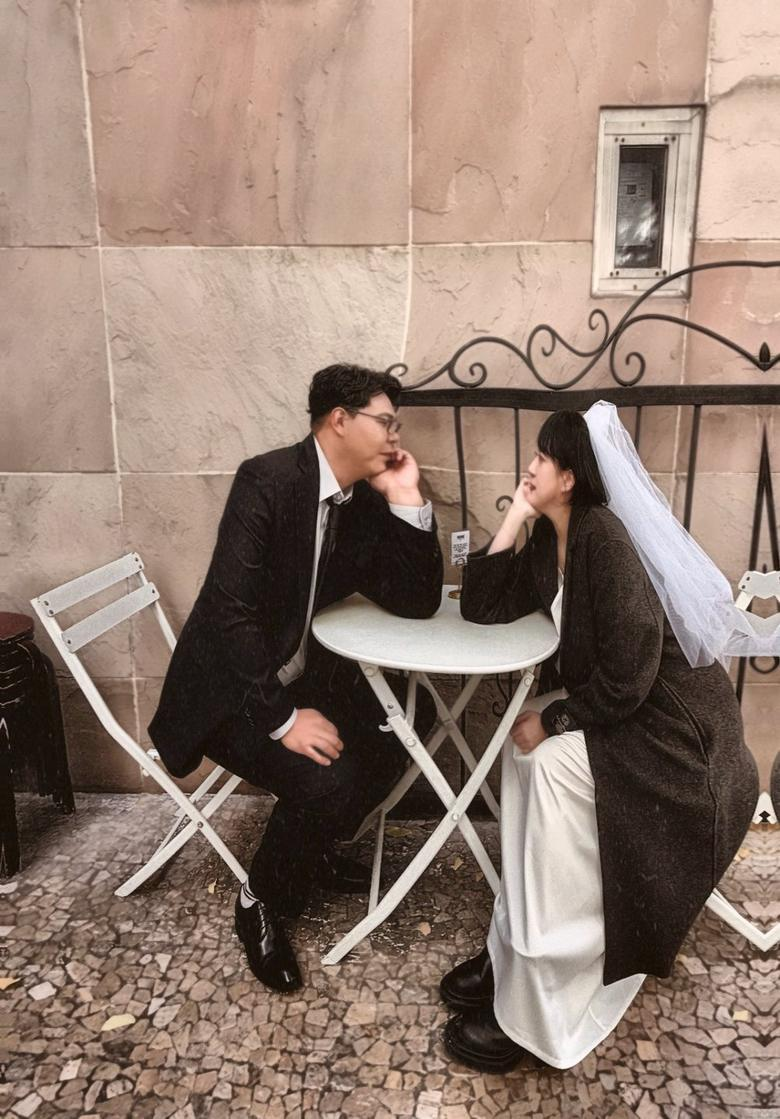
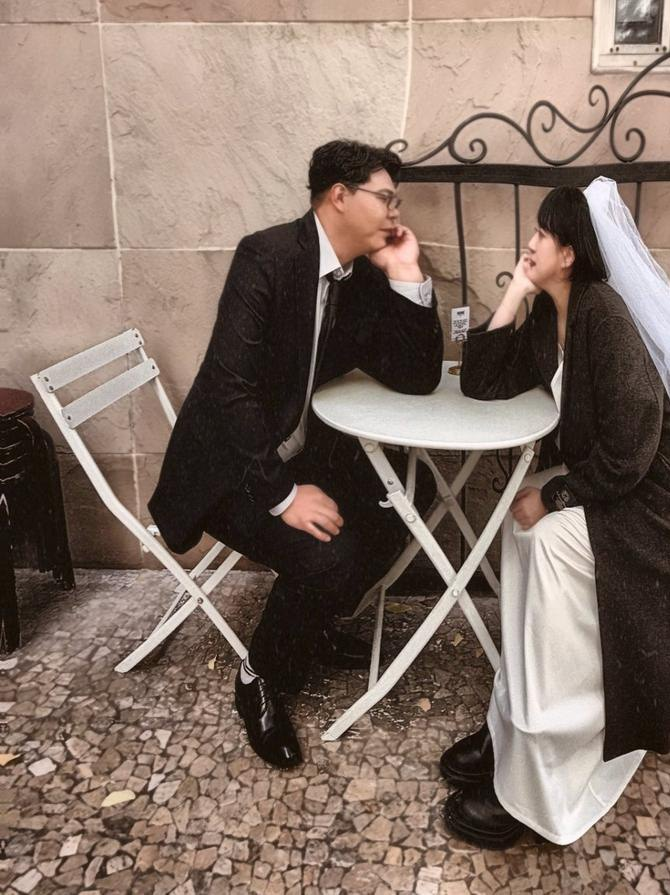
6번(카페 테라스) 사진: 신부 엉덩이 뒷부분부터 잘라냄, 스탬프는 왼쪽 위 벽으로
Claude-Session: https://claude.ai/code/session_018qxtHPCimKmFgYnWh3pAgM

diff --git a/gyusooandsehwa/passport/index.html b/gyusooandsehwa/passport/index.html
@@ -757,7 +757,7 @@ var PHOTOS = [[106, "Fate walks through silver grass"], [97, "Joy finds us anywh
     { n: 136, c: 'var(--stamp-r)', r: '-6deg', t: 'OLD TOWN', s: 'VINTAGE ATELIER', d: 'ENTRY', pos: 'top:26px;left:18px' },
     { n: 19,  c: 'var(--stamp-b)', r: '-10deg', t: 'PALACE GATE', s: 'SEOUL', d: 'PASSED', pos: 'top:20px;right:14px' },
     { n: 127, c: 'var(--stamp-r)', r: '9deg', round: true, t: 'HAN RIVER', s: 'HANNAM 1.3KM', d: 'DEPARTED', pos: 'top:16px;right:12px' },
-    { n: 234, c: 'var(--stamp-g)', r: '-8deg', round: true, t: 'CAFE TERRACE', s: 'JAHAMUN-RO', d: 'SEATED', pos: 'top:12px;right:10px' }
+    { n: 234, c: 'var(--stamp-g)', r: '-8deg', round: true, t: 'CAFE TERRACE', s: 'JAHAMUN-RO', d: 'SEATED', pos: 'top:12px;left:10px' }
   ];
   var capOf = {}; PHOTOS.forEach(function (p) { capOf[p[0]] = p[1]; });
   var KO = {"Fate walks through silver grass": "억새밭을 걷는다", "Joy finds us anywhere": "어디서든 즐겁다", "Time-worn doors, new vows": "오래된 가게 앞에서", "Holding on, holding hands": "손을 잡고 있다", "All roads led here": "여기까지 왔다", "Choosing you, every single day": "매일 당신을 고른다", "Of all paths, I chose you": "당신을 골랐다", "A kiss that says forever": "입을 맞춘다", "Love, by heart": "마음으로", "Every sign points to us": "표지판 앞에서", "Two hearts, one horizon": "같은 곳을 본다", "Still choosing you, daily": "오늘도 당신을 고른다", "Golden hours with you": "노을 질 무렵", "Let's run into forever": "같이 뛰자", "Home is in your arms": "안겨 있다", "Two paths became one": "두 길이 하나가 됐다", "Laughing into forever": "웃으며 걷는다", "Hand in hand, for life": "손을 잡고 간다", "Coffee and forever": "커피 한 잔", "Walk with me": "같이 걷자", "Two hearts, one home": "둘이 한 집", "Coffee for two, always": "둘이 마시는 커피", "Laughter is our language": "웃음이 많다", "You make ordinary golden": "평범한 하루", "Walk with me, always": "계속 같이 걷자", "A promise, face to face": "마주 보고 약속한다", "Running toward forever": "달려간다", "Old souls, new beginning": "새로 시작한다", "Love lives in the details": "사소한 것도 좋다", "Hand in hand, for life ♡": "손을 잡고 간다", "Every road led to you": "어느 길이든 같이", "Looking back, still us": "돌아봐도 우리", "Side by side, always": "늘 나란히", "Our story, just begun": "이제 시작이다", "Veil in the autumn wind": "바람에 날리는 베일", "Walking into our vows": "걸어간다", "Palace gates, open hearts": "궁궐 문 앞에서", "Side by side, sunlit": "햇볕 아래 나란히", "Every crosswalk, together": "횡단보도를 같이 건넌다", "The world can wait": "서두르지 않는다", "Hand in hand, unhurried": "손잡고 천천히", "Two shadows, one path": "그림자 두 개, 길 하나", "Under old eaves, new love": "처마 아래에서", "Looking up, together": "같이 올려다본다", "Eyes that say forever": "서로 바라본다", "Before the vow, a smile": "웃고 있다", "Quiet promises": "조용히"};
